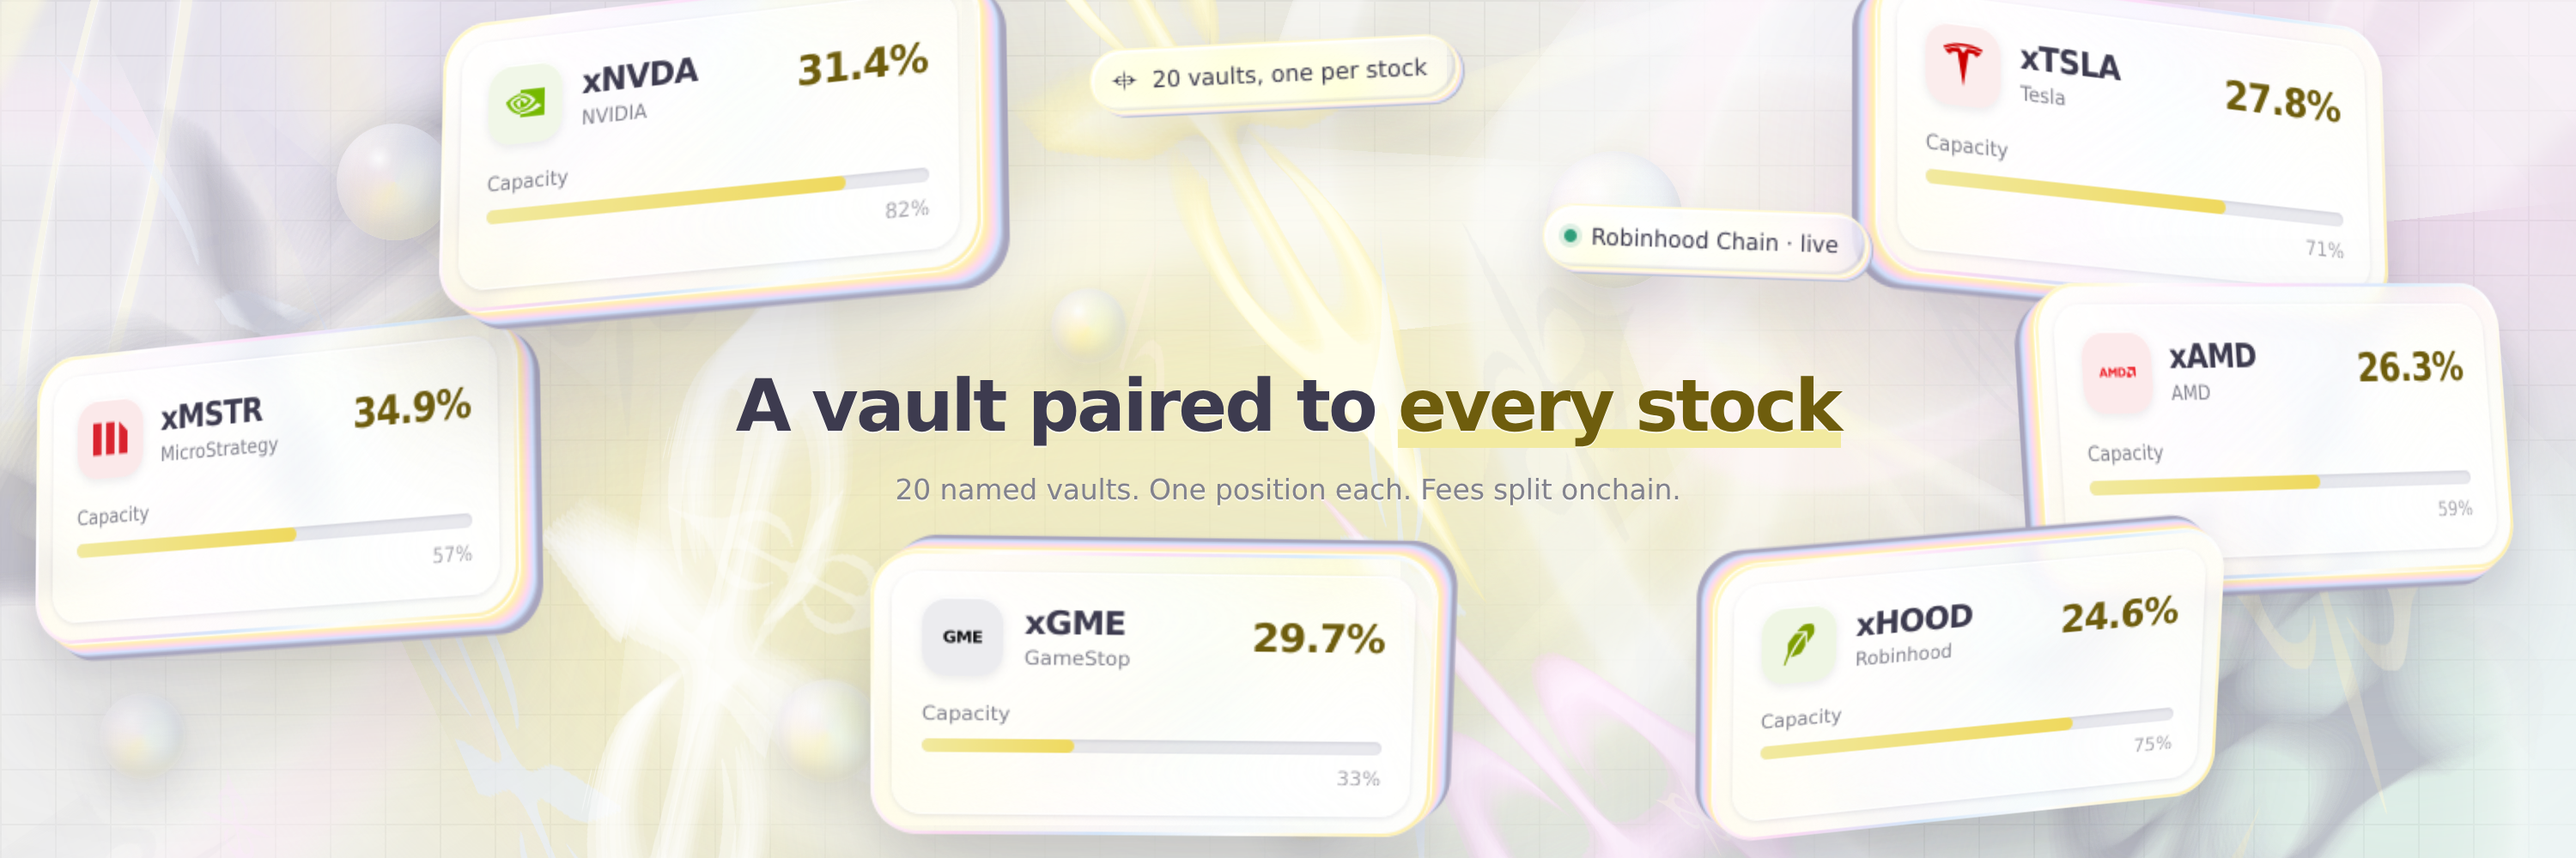
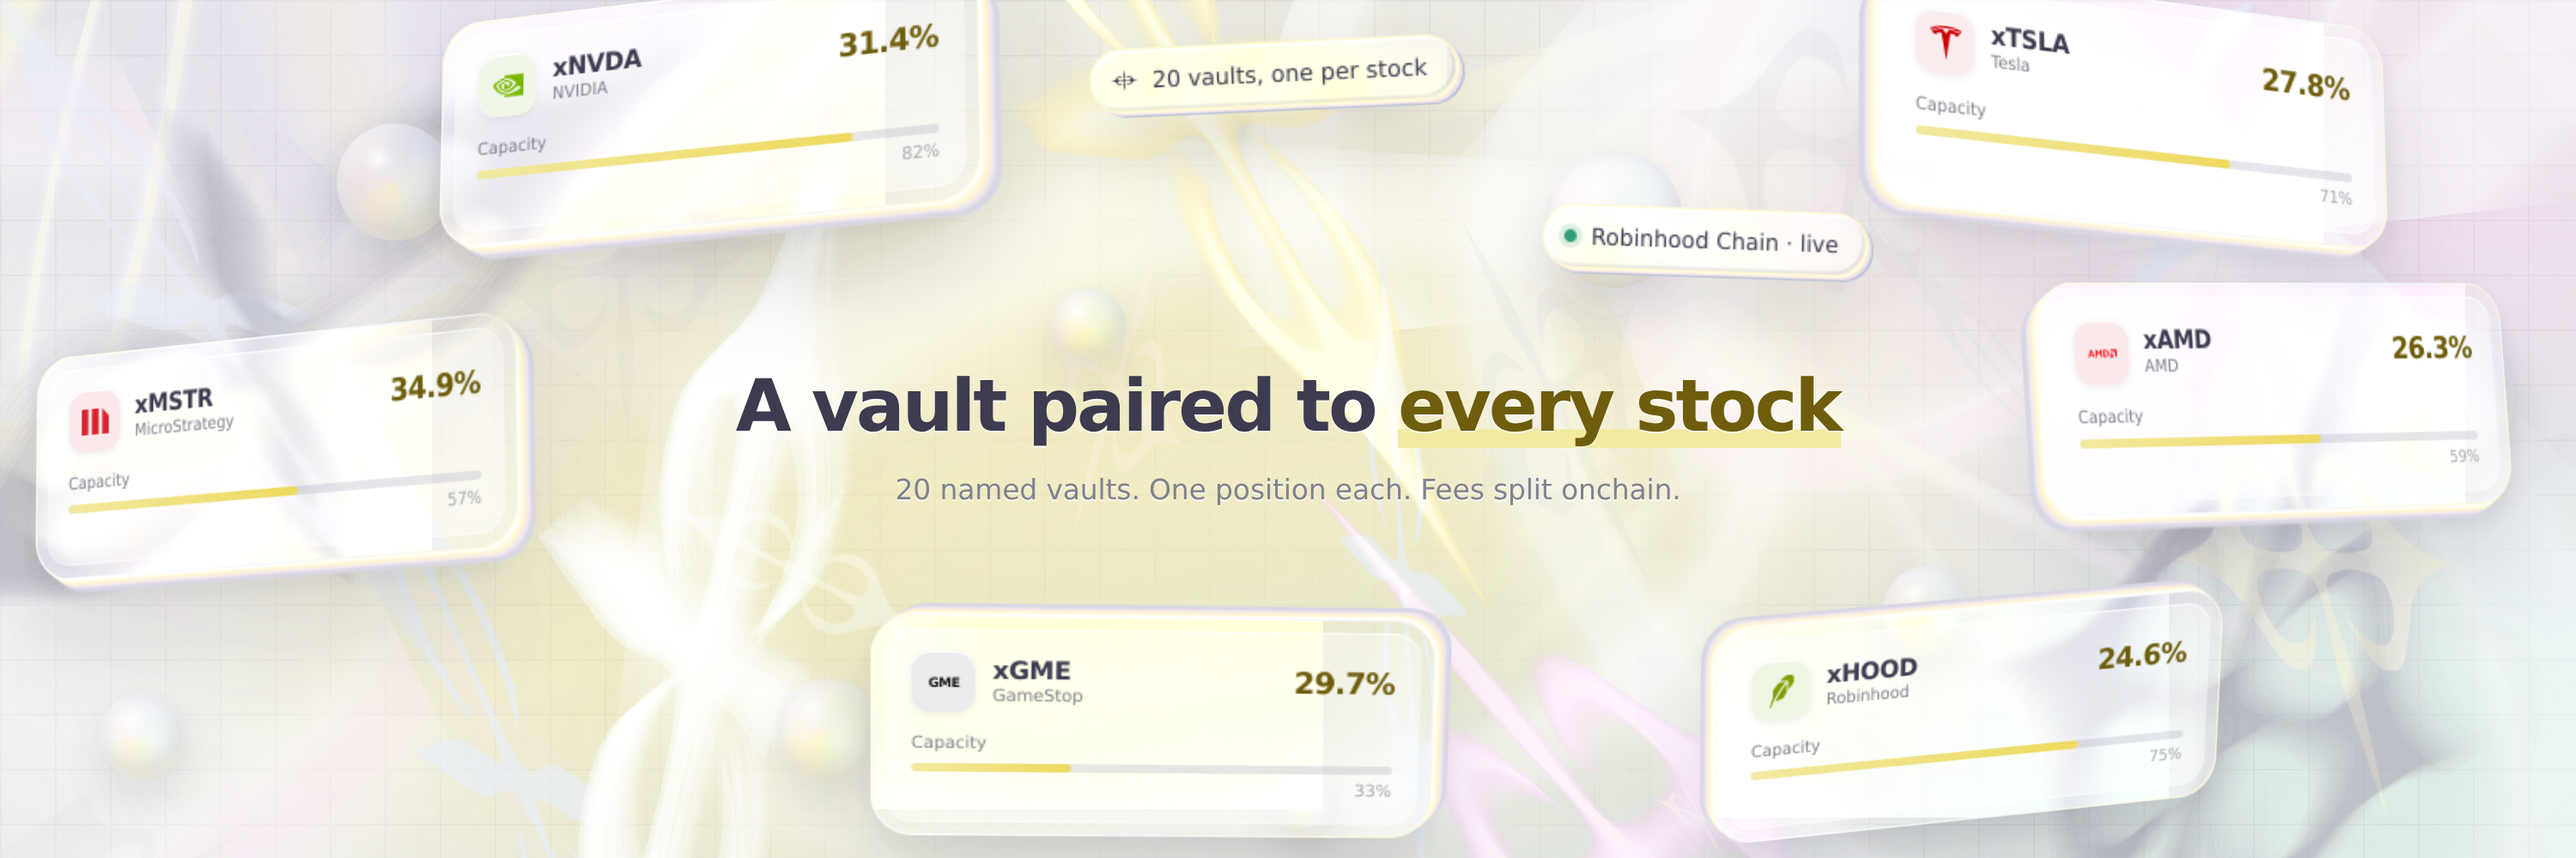
The slabs actually go clear this time
The last pass claimed a construction it had not built. Put side by side with
the reference the difference was obvious: theirs is a thin sheet you see the
scene straight through, mine was a milky white panel inside a white ring,
with a visible seam between the two and type about a third too big.

So: the bevel's fill drops from near-opaque white to under a fifth, and its
brightness now comes from two inset lines on its outer edge rather than from
a fill -- it is a rim of light, not a white band. Its width halves, 11px to
8px. The pane behind it goes to 30% white on a 9px blur, so what is behind
the card reads as itself rather than as a smudge. The thickness stops being a
striped stack of dispersed colour: it is mostly white now, with colour only
in its last third, and it is three or four steps shallower.

The type comes down to the reference's proportions -- ticker 19 to 14.5px,
the figure 23 to 17.5, the bar 8px tall to 5 -- and the rim's rainbow becomes
a hairline that is merely warm at one end and cool at the other.

One difference stays, and it is the palette's, not the build's: the reference
floats its glass over a dark, high-contrast scene, which is what makes its
transparency read so hard. This one floats over a pale ground by choice, so
the same construction reads quieter.

Claude-Session: https://claude.ai/code/session_01WE3rjawbSAaoLq39GWadM9

diff --git a/vesica-site/brand/x-header.html b/vesica-site/brand/x-header.html
@@ -53,9 +53,9 @@
   .rb {
     position:absolute; display:block; border-radius:50%; border-style:solid;
     box-shadow:
-      inset 0 0 60px rgba(255,255,255,.75),
+      inset 0 0 60px rgba(255,255,255,.92),
       inset 0 0 0 2px rgba(255,255,255,.85),
-      0 0 70px rgba(255,255,255,.45);
+      0 0 70px rgba(255,255,255,.60);
   }
   .ca {
     position:absolute; display:block; border-radius:999px;
@@ -100,194 +100,163 @@
   }
 
   /* ---- the vault slabs ----
-     Built the way the reference's are: a thick rounded bevel around a clear
-     pane. The outer element IS the bevel -- its padding is the bevel's width
-     -- and .face is the pane set into it, which is why the rim reads as a
-     solid piece of glass with a face let into it rather than a card with a
-     border. The bevel carries the shine, the pane carries the blur. */
+     A thin sheet of glass, which means the scene behind has to stay visible
+     through the whole card and not just around it. The fill is under a fifth
+     white on the bevel and a third on the pane, the blur is light enough that
+     what is behind still reads as itself, and the bevel is a rim of light
+     rather than a white band: its brightness is the two inset lines on its
+     outer edge, not a fill. */
   .card {
-    position:absolute; z-index:5; border-radius:27px; padding:12px;
-    background:linear-gradient(145deg,
-      rgba(255,255,255,.98) 0%, rgba(255,255,255,.74) 24%, rgba(255,255,255,.44) 52%,
-      rgba(255,255,255,.74) 78%, rgba(255,255,255,.96) 100%);
-    backdrop-filter:blur(11px) saturate(1.6) brightness(1.07);
+    position:absolute; z-index:5; border-radius:24px; padding:8px;
+    background:linear-gradient(150deg,
+      rgba(255,255,255,.24) 0%, rgba(255,255,255,.09) 48%, rgba(255,255,255,.19) 100%);
+    backdrop-filter:blur(4px) saturate(1.35) brightness(1.10);
   }
   .card::before {
     content:""; position:absolute; inset:0; border-radius:inherit; pointer-events:none;
-    background:
-      linear-gradient(118deg,
-        rgba(255,255,255,.95) 0%, rgba(255,255,255,0) 20%,
-        rgba(255,255,255,0) 66%, rgba(255,255,255,.62) 100%),
-      linear-gradient(72deg,
-        rgba(255,244,182,.22) 0%, rgba(255,214,248,.10) 33%,
-        rgba(200,231,255,.10) 57%, rgba(255,246,196,.20) 100%);
+    background:linear-gradient(120deg,
+      rgba(255,255,255,.60) 0%, rgba(255,255,255,0) 17%,
+      rgba(255,255,255,0) 73%, rgba(255,255,255,.34) 100%);
   }
-  /* the rim is where a thick edge splits the light hardest, so it carries the
-     spectrum outright -- yellow at both ends, because that one is the brand's */
+  /* a hairline, warm at one end and cool at the other — the edge splits the
+     light, but it is an edge, not an outline */
   .card::after {
     content:""; position:absolute; inset:0; border-radius:inherit; pointer-events:none;
-    padding:1.8px;
+    padding:1px;
     background:linear-gradient(125deg,
-      rgba(255,246,180,.98) 0%, rgba(255,255,255,.95) 17%,
-      rgba(255,212,246,.75) 37%, rgba(202,230,255,.70) 56%,
-      rgba(255,255,255,.92) 74%, rgba(255,238,160,.98) 100%);
+      rgba(255,250,218,.95) 0%, rgba(255,255,255,.88) 28%,
+      rgba(238,245,255,.66) 60%, rgba(255,247,210,.92) 100%);
     -webkit-mask:linear-gradient(#000 0 0) content-box, linear-gradient(#000 0 0);
     -webkit-mask-composite:xor; mask:linear-gradient(#000 0 0) content-box, linear-gradient(#000 0 0);
     mask-composite:exclude;
   }
   .vc { width:322px; }
   .face {
-    position:relative; z-index:1; border-radius:17px; padding:15px 17px 16px;
-    background:rgba(255,255,255,.30);
-    backdrop-filter:blur(17px) saturate(1.5) brightness(1.03);
-    box-shadow:
-      inset 0 1px 0 rgba(255,255,255,.88),
-      inset 0 -1px 0 rgba(255,255,255,.55),
-      0 1px 3px rgba(92,90,124,.14);
+    position:relative; z-index:1; border-radius:16px; padding:13px 15px 14px;
+    background:rgba(255,255,255,.34);
+    backdrop-filter:blur(9px) saturate(1.25) brightness(1.04);
+    box-shadow:inset 0 1px 0 rgba(255,255,255,.74), inset 0 -1px 0 rgba(255,255,255,.40);
   }
-  .vc-row { display:flex; align-items:center; gap:12px; }
+  .vc-row { display:flex; align-items:center; gap:10px; }
   .vc-ic {
-    width:46px; height:46px; flex:none; border-radius:14px;
+    width:36px; height:36px; flex:none; border-radius:11px;
     display:grid; place-items:center;
-    box-shadow:inset 0 1px 0 rgba(255,255,255,.9), 0 2px 6px rgba(61,59,79,.10);
+    box-shadow:inset 0 1px 0 rgba(255,255,255,.9), 0 1px 4px rgba(61,59,79,.09);
   }
-  .vc-ic svg { width:24px; height:24px; fill:currentColor; }
+  .vc-ic svg { width:19px; height:19px; fill:currentColor; }
   .vc-id { display:flex; flex-direction:column; min-width:0; }
-  .vc-id b { font-size:19px; font-weight:700; letter-spacing:-.03em; white-space:nowrap; }
-  .vc-id span { font-size:11.5px; color:var(--muted); margin-top:2px; white-space:nowrap; }
-  .vc-px { margin-left:auto; font-size:23px; font-weight:600; letter-spacing:-.03em; color:var(--accent); }
-  .vc-lab { display:block; margin-top:15px; font-size:11.5px; color:var(--muted); }
+  .vc-id b { font-size:14.5px; font-weight:700; letter-spacing:-.02em; white-space:nowrap; }
+  .vc-id span { font-size:9.8px; color:var(--muted); margin-top:1px; white-space:nowrap; }
+  .vc-px { margin-left:auto; font-size:17.5px; font-weight:600; letter-spacing:-.03em; color:var(--accent); }
+  .vc-lab { display:block; margin-top:13px; font-size:9.8px; color:var(--muted); }
   .vc-bar {
-    position:relative; margin-top:8px; height:8px; border-radius:999px;
-    background:rgba(120,118,150,.16); overflow:hidden;
-    box-shadow:inset 0 1px 2px rgba(92,90,124,.16);
+    position:relative; margin-top:6px; height:5px; border-radius:999px;
+    background:rgba(120,118,150,.18); overflow:hidden;
   }
   .vc-bar i { display:block; height:100%; border-radius:999px;
               background:linear-gradient(90deg, var(--accent-fill), var(--accent-glow)); }
-  .vc-bar span { display:none; }
-  .vc-pct { display:block; text-align:right; margin-top:7px; font-size:11.5px; color:var(--dim); }
+  .vc-pct { display:block; text-align:right; margin-top:5px; font-size:9.8px; color:var(--dim); }
 
   .v1 { left:14px; top:196px; transform:translateZ(46px) rotateX(6deg) rotateY(-17deg) rotateZ(-3deg);
     box-shadow:
       1.0px 0.7px 0 #FFFFFF,
-      2.0px 1.4px 0 #FFF6C1,
-      3.0px 2.1px 0 #FFEFB1,
-      4.0px 2.8px 0 #FFE9C0,
-      5.0px 3.5px 0 #FFE4CF,
-      6.0px 4.2px 0 #FFDEDE,
-      7.0px 4.9px 0 #FFD9EE,
-      8.0px 5.6px 0 #F2DBF4,
-      9.0px 6.3px 0 #E2DFF9,
-      10.0px 7.0px 0 #D3E2FE,
-      11.0px 7.7px 0 #C4D1EB,
-      12.0px 8.4px 0 #B4B8D2,
-      13.0px 9.1px 0 #A9A6BE,
-      14.0px 9.8px 0 #A9A6BE,
-      15.0px 10.5px 0 #A9A6BE,
-      0 44px 74px rgba(61,59,79,.17),
-      0 12px 24px rgba(61,59,79,.09),
-      inset 2px 2px 0 rgba(255,255,255,.96),
-      inset -2px -2px 0 rgba(150,140,175,.18); }
+      2.0px 1.4px 0 #FFFCF1,
+      3.0px 2.1px 0 #FFFAE2,
+      4.0px 2.8px 0 #FFF7D4,
+      5.0px 3.5px 0 #FCF3D6,
+      6.0px 4.2px 0 #F7EDE4,
+      7.0px 4.9px 0 #F2E8F2,
+      8.0px 5.6px 0 #E6DFEB,
+      9.0px 6.3px 0 #D9D6E4,
+      10.0px 7.0px 0 #D9D6E4,
+      11.0px 7.7px 0 #D9D6E4,
+      0 34px 58px rgba(61,59,79,.15),
+      0 8px 18px rgba(61,59,79,.08),
+      inset 1px 1px 0 rgba(255,255,255,.94),
+      inset -1px -1px 0 rgba(255,255,255,.55); }
   .v2 { left:268px; top:8px; transform:translateZ(86px) rotateX(9deg) rotateY(-14deg) rotateZ(-2deg);
     box-shadow:
       1.0px 0.7px 0 #FFFFFF,
-      2.0px 1.4px 0 #FFF6C5,
-      3.0px 2.2px 0 #FFEFAF,
-      4.0px 2.9px 0 #FFEABD,
-      5.0px 3.6px 0 #FFE5CB,
-      6.0px 4.3px 0 #FFE0D9,
-      7.0px 5.0px 0 #FFDBE8,
-      8.0px 5.8px 0 #F9D9F2,
-      9.0px 6.5px 0 #EBDDF6,
-      10.0px 7.2px 0 #DCE0FB,
-      11.0px 7.9px 0 #CEE1FD,
-      12.0px 8.6px 0 #C0CAE5,
-      13.0px 9.4px 0 #B1B4CC,
-      14.0px 10.1px 0 #A9A6BE,
-      15.0px 10.8px 0 #A9A6BE,
-      16.0px 11.5px 0 #A9A6BE,
-      0 44px 74px rgba(61,59,79,.17),
-      0 12px 24px rgba(61,59,79,.09),
-      inset 2px 2px 0 rgba(255,255,255,.96),
-      inset -2px -2px 0 rgba(150,140,175,.18); }
+      2.0px 1.4px 0 #FFFDF2,
+      3.0px 2.2px 0 #FFFAE5,
+      4.0px 2.9px 0 #FFF8D8,
+      5.0px 3.6px 0 #FEF5D1,
+      6.0px 4.3px 0 #F9F0DE,
+      7.0px 5.0px 0 #F5EBEA,
+      8.0px 5.8px 0 #EDE5EF,
+      9.0px 6.5px 0 #E2DDE9,
+      10.0px 7.2px 0 #D9D6E4,
+      11.0px 7.9px 0 #D9D6E4,
+      12.0px 8.6px 0 #D9D6E4,
+      0 34px 58px rgba(61,59,79,.15),
+      0 8px 18px rgba(61,59,79,.08),
+      inset 1px 1px 0 rgba(255,255,255,.94),
+      inset -1px -1px 0 rgba(255,255,255,.55); }
   .v3 { left:512px; bottom:14px; transform:translateZ(24px) rotateX(-9deg) rotateY(3deg) rotateZ(1.4deg); filter:blur(0.35px);
     box-shadow:
       0.9px -0.7px 0 #FFFFFF,
-      1.8px -1.4px 0 #FFF4B6,
-      2.7px -2.1px 0 #FFEDB6,
-      3.6px -2.8px 0 #FFE7C8,
-      4.5px -3.5px 0 #FFE0D9,
-      5.4px -4.2px 0 #FFDAEB,
-      6.3px -4.9px 0 #F2DBF4,
-      7.2px -5.6px 0 #E0DFFA,
-      8.1px -6.3px 0 #CEE1FD,
-      9.0px -7.0px 0 #BCC5DF,
-      9.9px -7.7px 0 #AAA8C0,
-      10.8px -8.4px 0 #A9A6BE,
-      11.7px -9.1px 0 #A9A6BE,
-      0 44px 74px rgba(61,59,79,.17),
-      0 12px 24px rgba(61,59,79,.09),
-      inset 2px 2px 0 rgba(255,255,255,.96),
-      inset -2px -2px 0 rgba(150,140,175,.18); }
+      1.8px -1.4px 0 #FFFCEF,
+      2.7px -2.1px 0 #FFF9DF,
+      3.6px -2.8px 0 #FFF6CF,
+      4.5px -3.5px 0 #FAF0DC,
+      5.4px -4.2px 0 #F4EAEC,
+      6.3px -4.9px 0 #EAE2ED,
+      7.2px -5.6px 0 #DCD8E6,
+      8.1px -6.3px 0 #D9D6E4,
+      9.0px -7.0px 0 #D9D6E4,
+      0 34px 58px rgba(61,59,79,.15),
+      0 8px 18px rgba(61,59,79,.08),
+      inset 1px 1px 0 rgba(255,255,255,.94),
+      inset -1px -1px 0 rgba(255,255,255,.55); }
   .v4 { right:118px; top:8px; transform:translateZ(74px) rotateX(8deg) rotateY(16deg) rotateZ(2deg);
     box-shadow:
       -1.0px 0.7px 0 #FFFFFF,
-      -2.0px 1.4px 0 #FFF6C1,
-      -3.0px 2.1px 0 #FFEFB1,
-      -4.0px 2.8px 0 #FFE9C0,
-      -5.0px 3.5px 0 #FFE4CF,
-      -6.0px 4.2px 0 #FFDEDE,
-      -7.0px 4.9px 0 #FFD9EE,
-      -8.0px 5.6px 0 #F2DBF4,
-      -9.0px 6.3px 0 #E2DFF9,
-      -10.0px 7.0px 0 #D3E2FE,
-      -11.0px 7.7px 0 #C4D1EB,
-      -12.0px 8.4px 0 #B4B8D2,
-      -13.0px 9.1px 0 #A9A6BE,
-      -14.0px 9.8px 0 #A9A6BE,
-      -15.0px 10.5px 0 #A9A6BE,
-      0 44px 74px rgba(61,59,79,.17),
-      0 12px 24px rgba(61,59,79,.09),
-      inset 2px 2px 0 rgba(255,255,255,.96),
-      inset -2px -2px 0 rgba(150,140,175,.18); }
+      -2.0px 1.4px 0 #FFFCF1,
+      -3.0px 2.1px 0 #FFFAE2,
+      -4.0px 2.8px 0 #FFF7D4,
+      -5.0px 3.5px 0 #FCF3D6,
+      -6.0px 4.2px 0 #F7EDE4,
+      -7.0px 4.9px 0 #F2E8F2,
+      -8.0px 5.6px 0 #E6DFEB,
+      -9.0px 6.3px 0 #D9D6E4,
+      -10.0px 7.0px 0 #D9D6E4,
+      -11.0px 7.7px 0 #D9D6E4,
+      0 34px 58px rgba(61,59,79,.15),
+      0 8px 18px rgba(61,59,79,.08),
+      inset 1px 1px 0 rgba(255,255,255,.94),
+      inset -1px -1px 0 rgba(255,255,255,.55); }
   .v5 { right:24px; top:166px; transform:translateZ(36px) rotateX(5deg) rotateY(19deg) rotateZ(-2.4deg); filter:blur(0.3px);
     box-shadow:
       -1.0px 0.7px 0 #FFFFFF,
-      -2.0px 1.4px 0 #FFF5BC,
-      -3.0px 2.0px 0 #FFEEB3,
-      -4.0px 2.7px 0 #FFE8C4,
-      -5.0px 3.4px 0 #FFE2D4,
-      -6.0px 4.1px 0 #FFDCE4,
-      -7.0px 4.8px 0 #FAD9F1,
-      -8.0px 5.4px 0 #EADDF7,
-      -9.0px 6.1px 0 #D9E1FC,
-      -10.0px 6.8px 0 #C8D8F3,
-      -11.0px 7.5px 0 #B8BED8,
-      -12.0px 8.2px 0 #A9A6BE,
-      -13.0px 8.8px 0 #A9A6BE,
-      -14.0px 9.5px 0 #A9A6BE,
-      0 44px 74px rgba(61,59,79,.17),
-      0 12px 24px rgba(61,59,79,.09),
-      inset 2px 2px 0 rgba(255,255,255,.96),
-      inset -2px -2px 0 rgba(150,140,175,.18); }
+      -2.0px 1.4px 0 #FFFCF1,
+      -3.0px 2.0px 0 #FFFAE2,
+      -4.0px 2.7px 0 #FFF7D4,
+      -5.0px 3.4px 0 #FCF3D6,
+      -6.0px 4.1px 0 #F7EDE4,
+      -7.0px 4.8px 0 #F2E8F2,
+      -8.0px 5.4px 0 #E6DFEB,
+      -9.0px 6.1px 0 #D9D6E4,
+      -10.0px 6.8px 0 #D9D6E4,
+      -11.0px 7.5px 0 #D9D6E4,
+      0 34px 58px rgba(61,59,79,.15),
+      0 8px 18px rgba(61,59,79,.08),
+      inset 1px 1px 0 rgba(255,255,255,.94),
+      inset -1px -1px 0 rgba(255,255,255,.55); }
   .v6 { right:186px; bottom:16px; transform:translateZ(-18px) rotateX(-11deg) rotateY(12deg) rotateZ(-1.4deg); filter:blur(0.7px);
     box-shadow:
       -0.9px -0.8px 0 #FFFFFF,
-      -1.8px -1.6px 0 #FFF3B0,
-      -2.7px -2.3px 0 #FFECB9,
-      -3.6px -3.1px 0 #FFE5CD,
-      -4.5px -3.9px 0 #FFDEE0,
-      -5.4px -4.7px 0 #FCD9F1,
-      -6.3px -5.5px 0 #E8DDF7,
-      -7.2px -6.2px 0 #D4E2FD,
-      -8.1px -7.0px 0 #C1CCE7,
-      -9.0px -7.8px 0 #AEADC6,
-      -9.9px -8.6px 0 #A9A6BE,
-      -10.8px -9.4px 0 #A9A6BE,
-      0 44px 74px rgba(61,59,79,.17),
-      0 12px 24px rgba(61,59,79,.09),
-      inset 2px 2px 0 rgba(255,255,255,.96),
-      inset -2px -2px 0 rgba(150,140,175,.18); }
+      -1.8px -1.6px 0 #FFFCED,
+      -2.7px -2.3px 0 #FFF8DB,
+      -3.6px -3.1px 0 #FDF4D3,
+      -4.5px -3.9px 0 #F7EDE4,
+      -5.4px -4.7px 0 #EFE6F0,
+      -6.3px -5.5px 0 #DFDAE8,
+      -7.2px -6.2px 0 #D9D6E4,
+      -8.1px -7.0px 0 #D9D6E4,
+      0 34px 58px rgba(61,59,79,.15),
+      0 8px 18px rgba(61,59,79,.08),
+      inset 1px 1px 0 rgba(255,255,255,.94),
+      inset -1px -1px 0 rgba(255,255,255,.55); }
 
   .say {
     position:absolute; left:0; right:0; top:214px; text-align:center; z-index:6;
